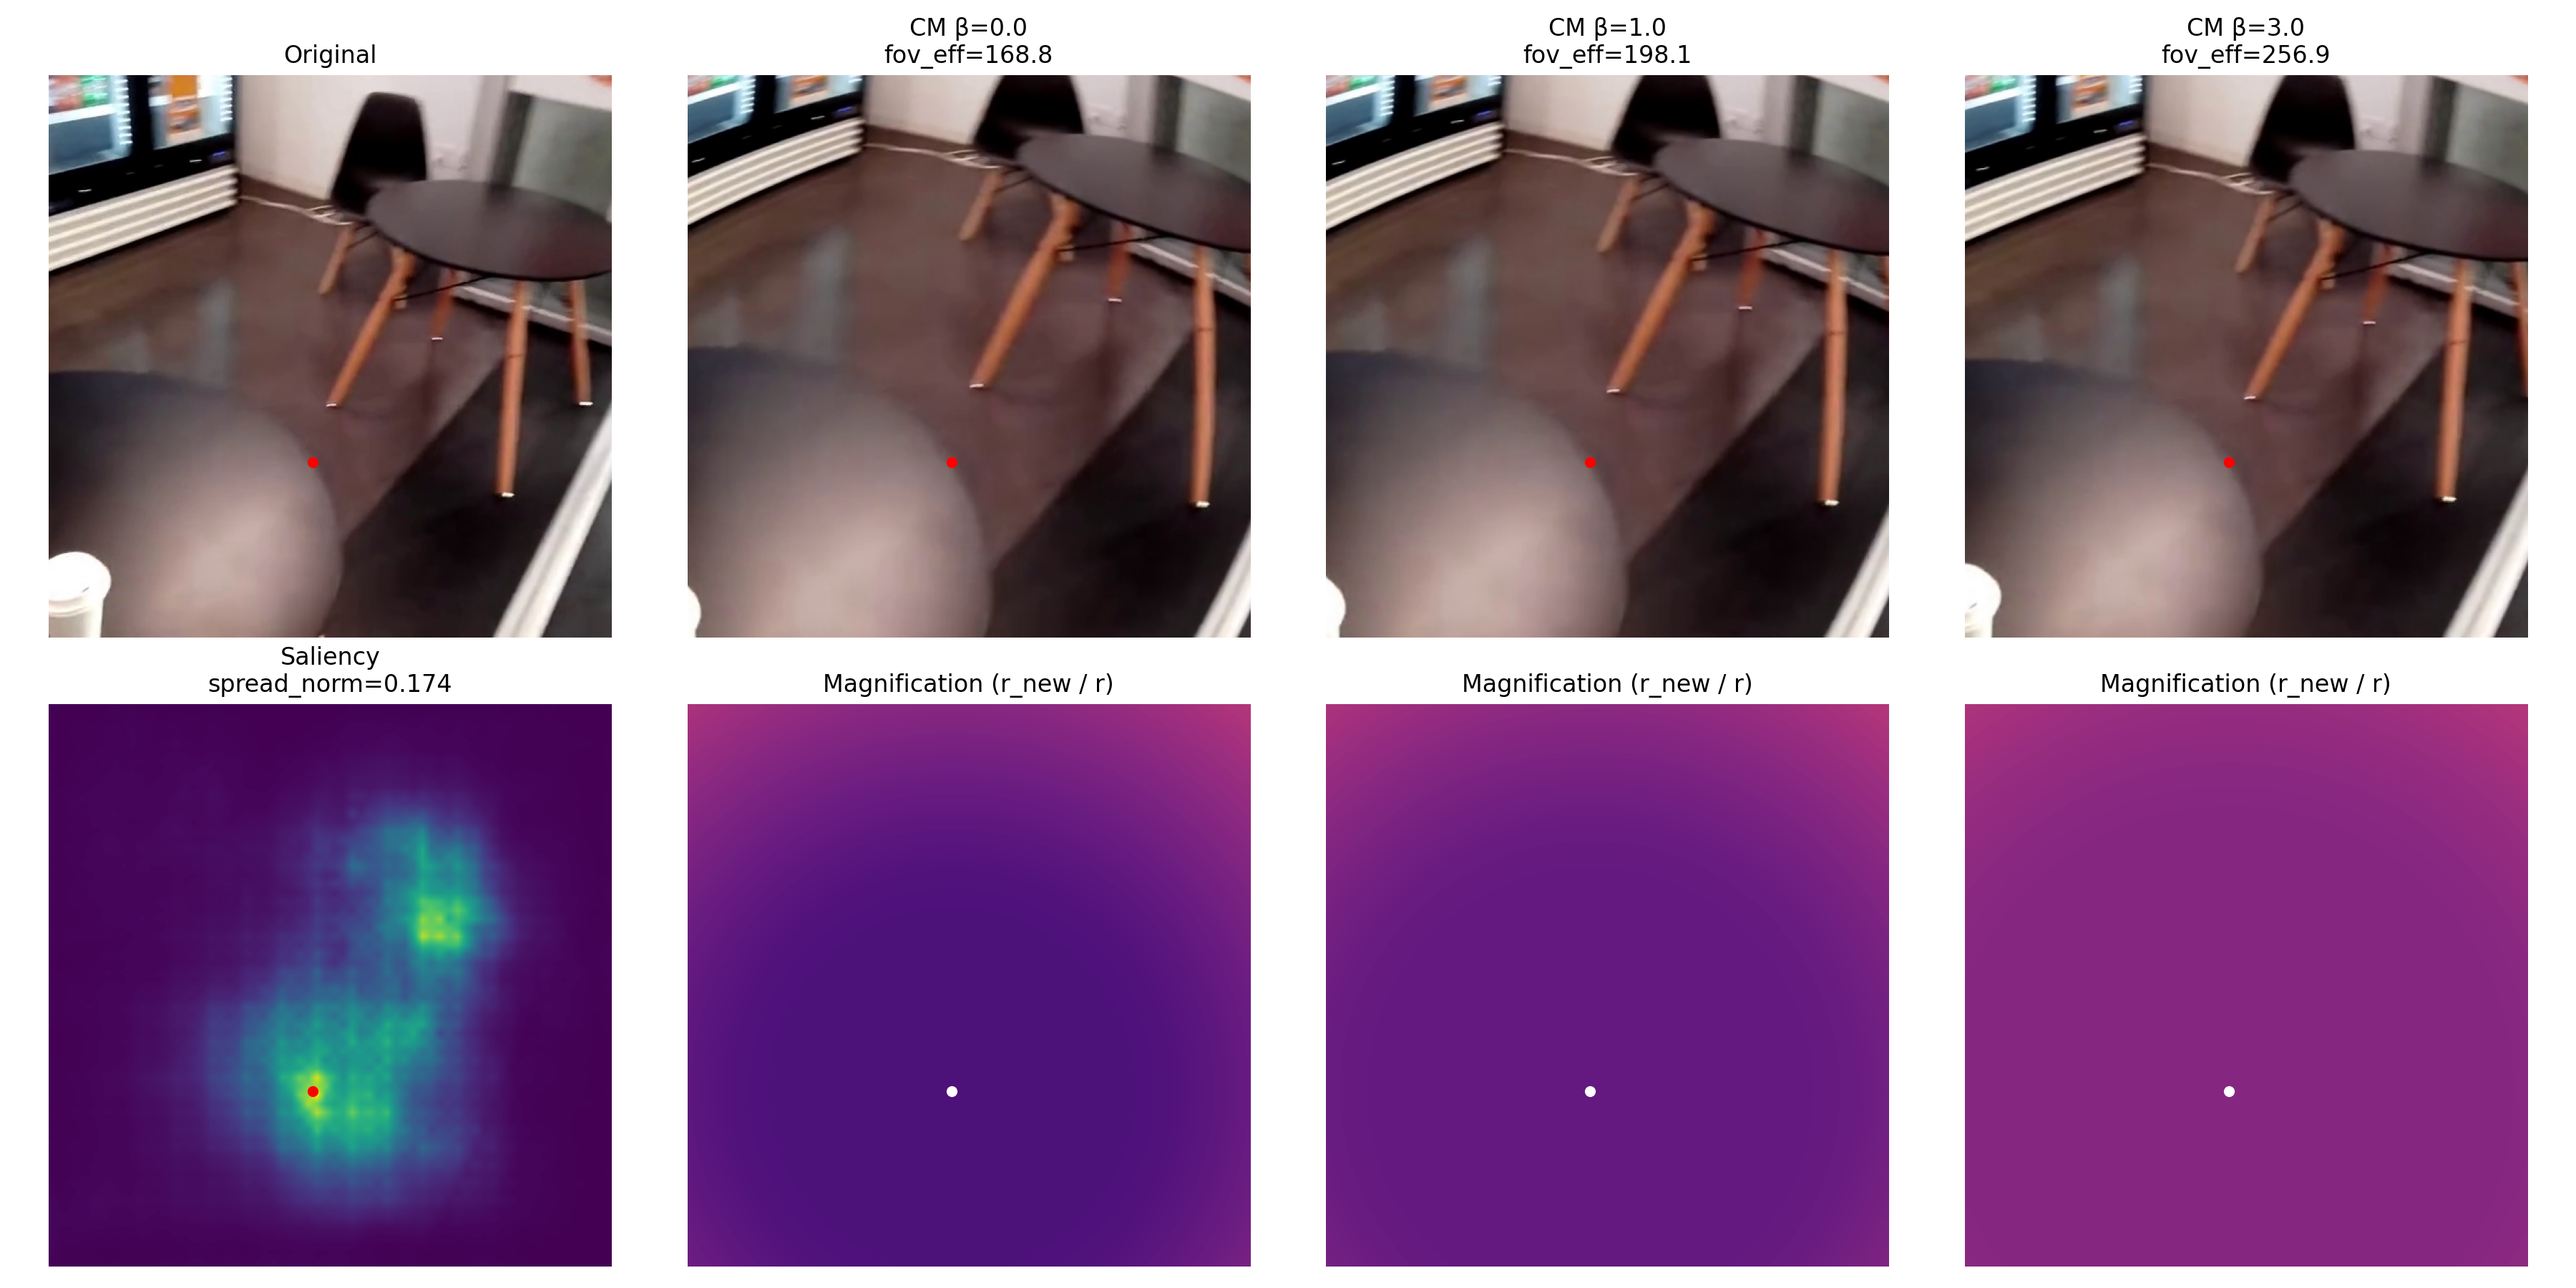
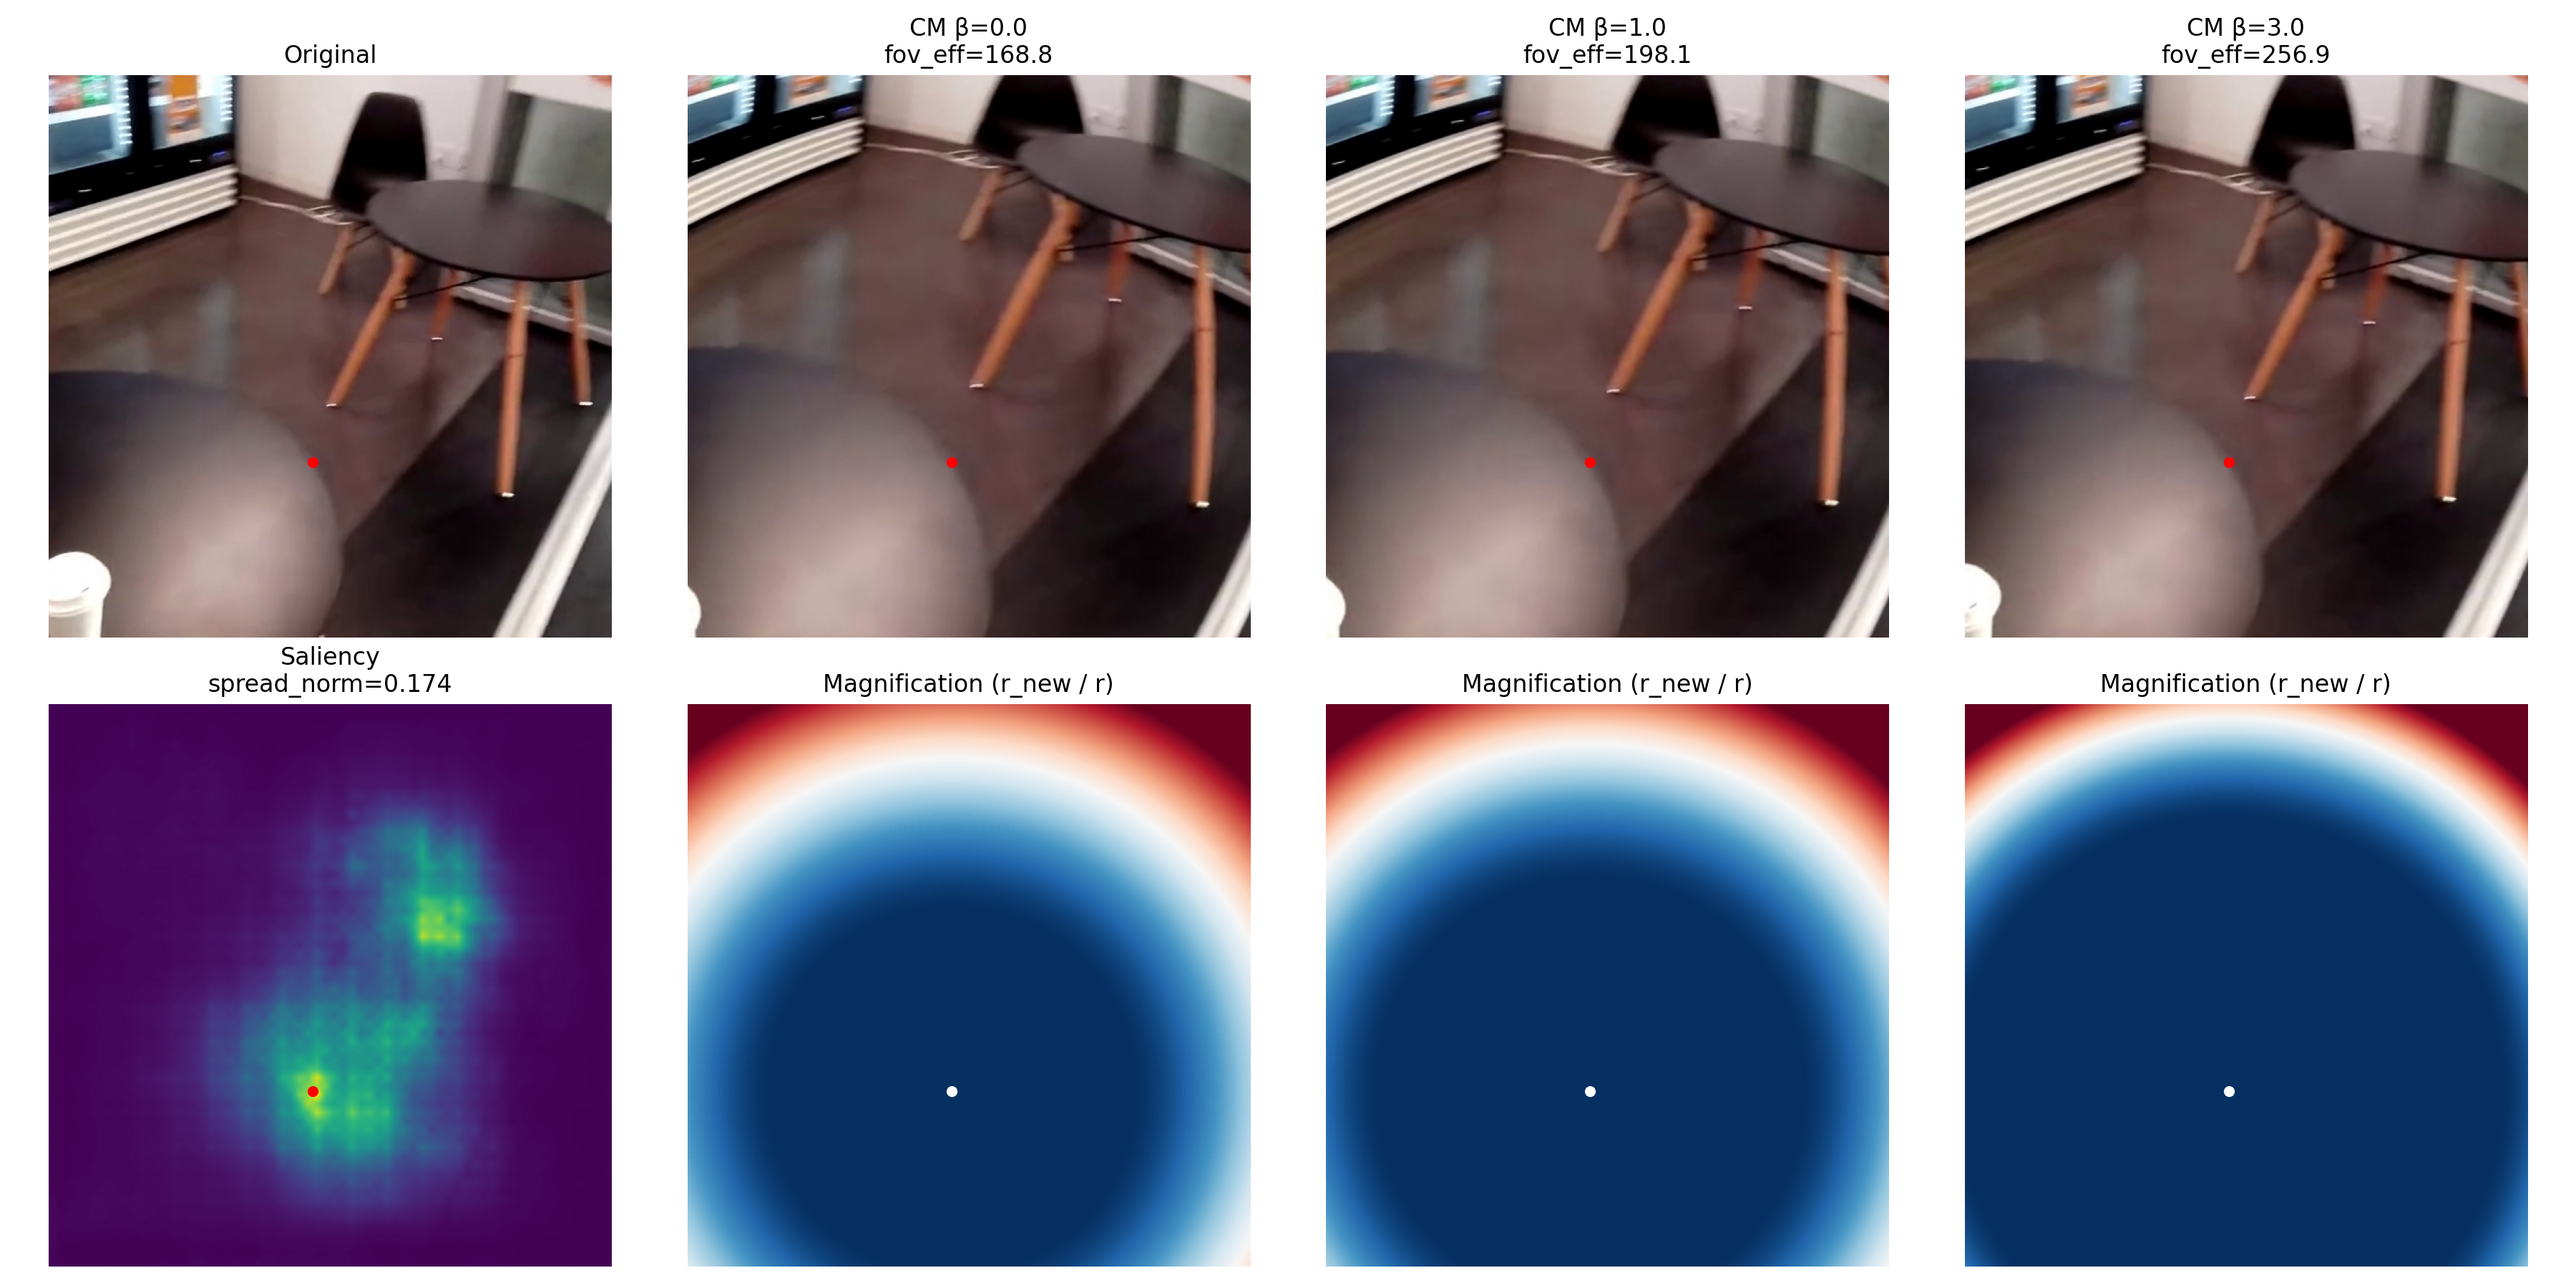
changed cm saliency visualisation.

Changed region(s): [[0.2489, 0.5289, 0.9956, 0.9956]]

diff --git a/foveation/viz.py b/foveation/viz.py
@@ -369,21 +369,26 @@ def viz_cm_saliency_effect(samples, betas=[0.0, 1.0, 3.0]):
             fov_eff_tensor.view(1,1,1),
             torch.tensor(K, device=device).view(1,1,1)
         )
-
-        # ---- Magnification Map ----
+        
+    
         eps = 1e-6
         magnification = (r_new / (r + eps)).squeeze().cpu().numpy()
 
+        # robuste Kontrast-Skalierung
+        vmin = np.percentile(magnification, 2)
+        vmax = np.percentile(magnification, 98)
+
         im = axes[1, col+1].imshow(
             magnification,
-            cmap="magma",
-            vmin=0.5,
-            vmax=1.5
+            cmap="RdBu_r",
+            vmin=vmin,
+            vmax=vmax
         )
 
         axes[1, col+1].scatter(x_g, y_g, c="white", s=20)
         axes[1, col+1].set_title("Magnification (r_new / r)")
         axes[1, col+1].axis("off")
+
 
     plt.tight_layout()
 
